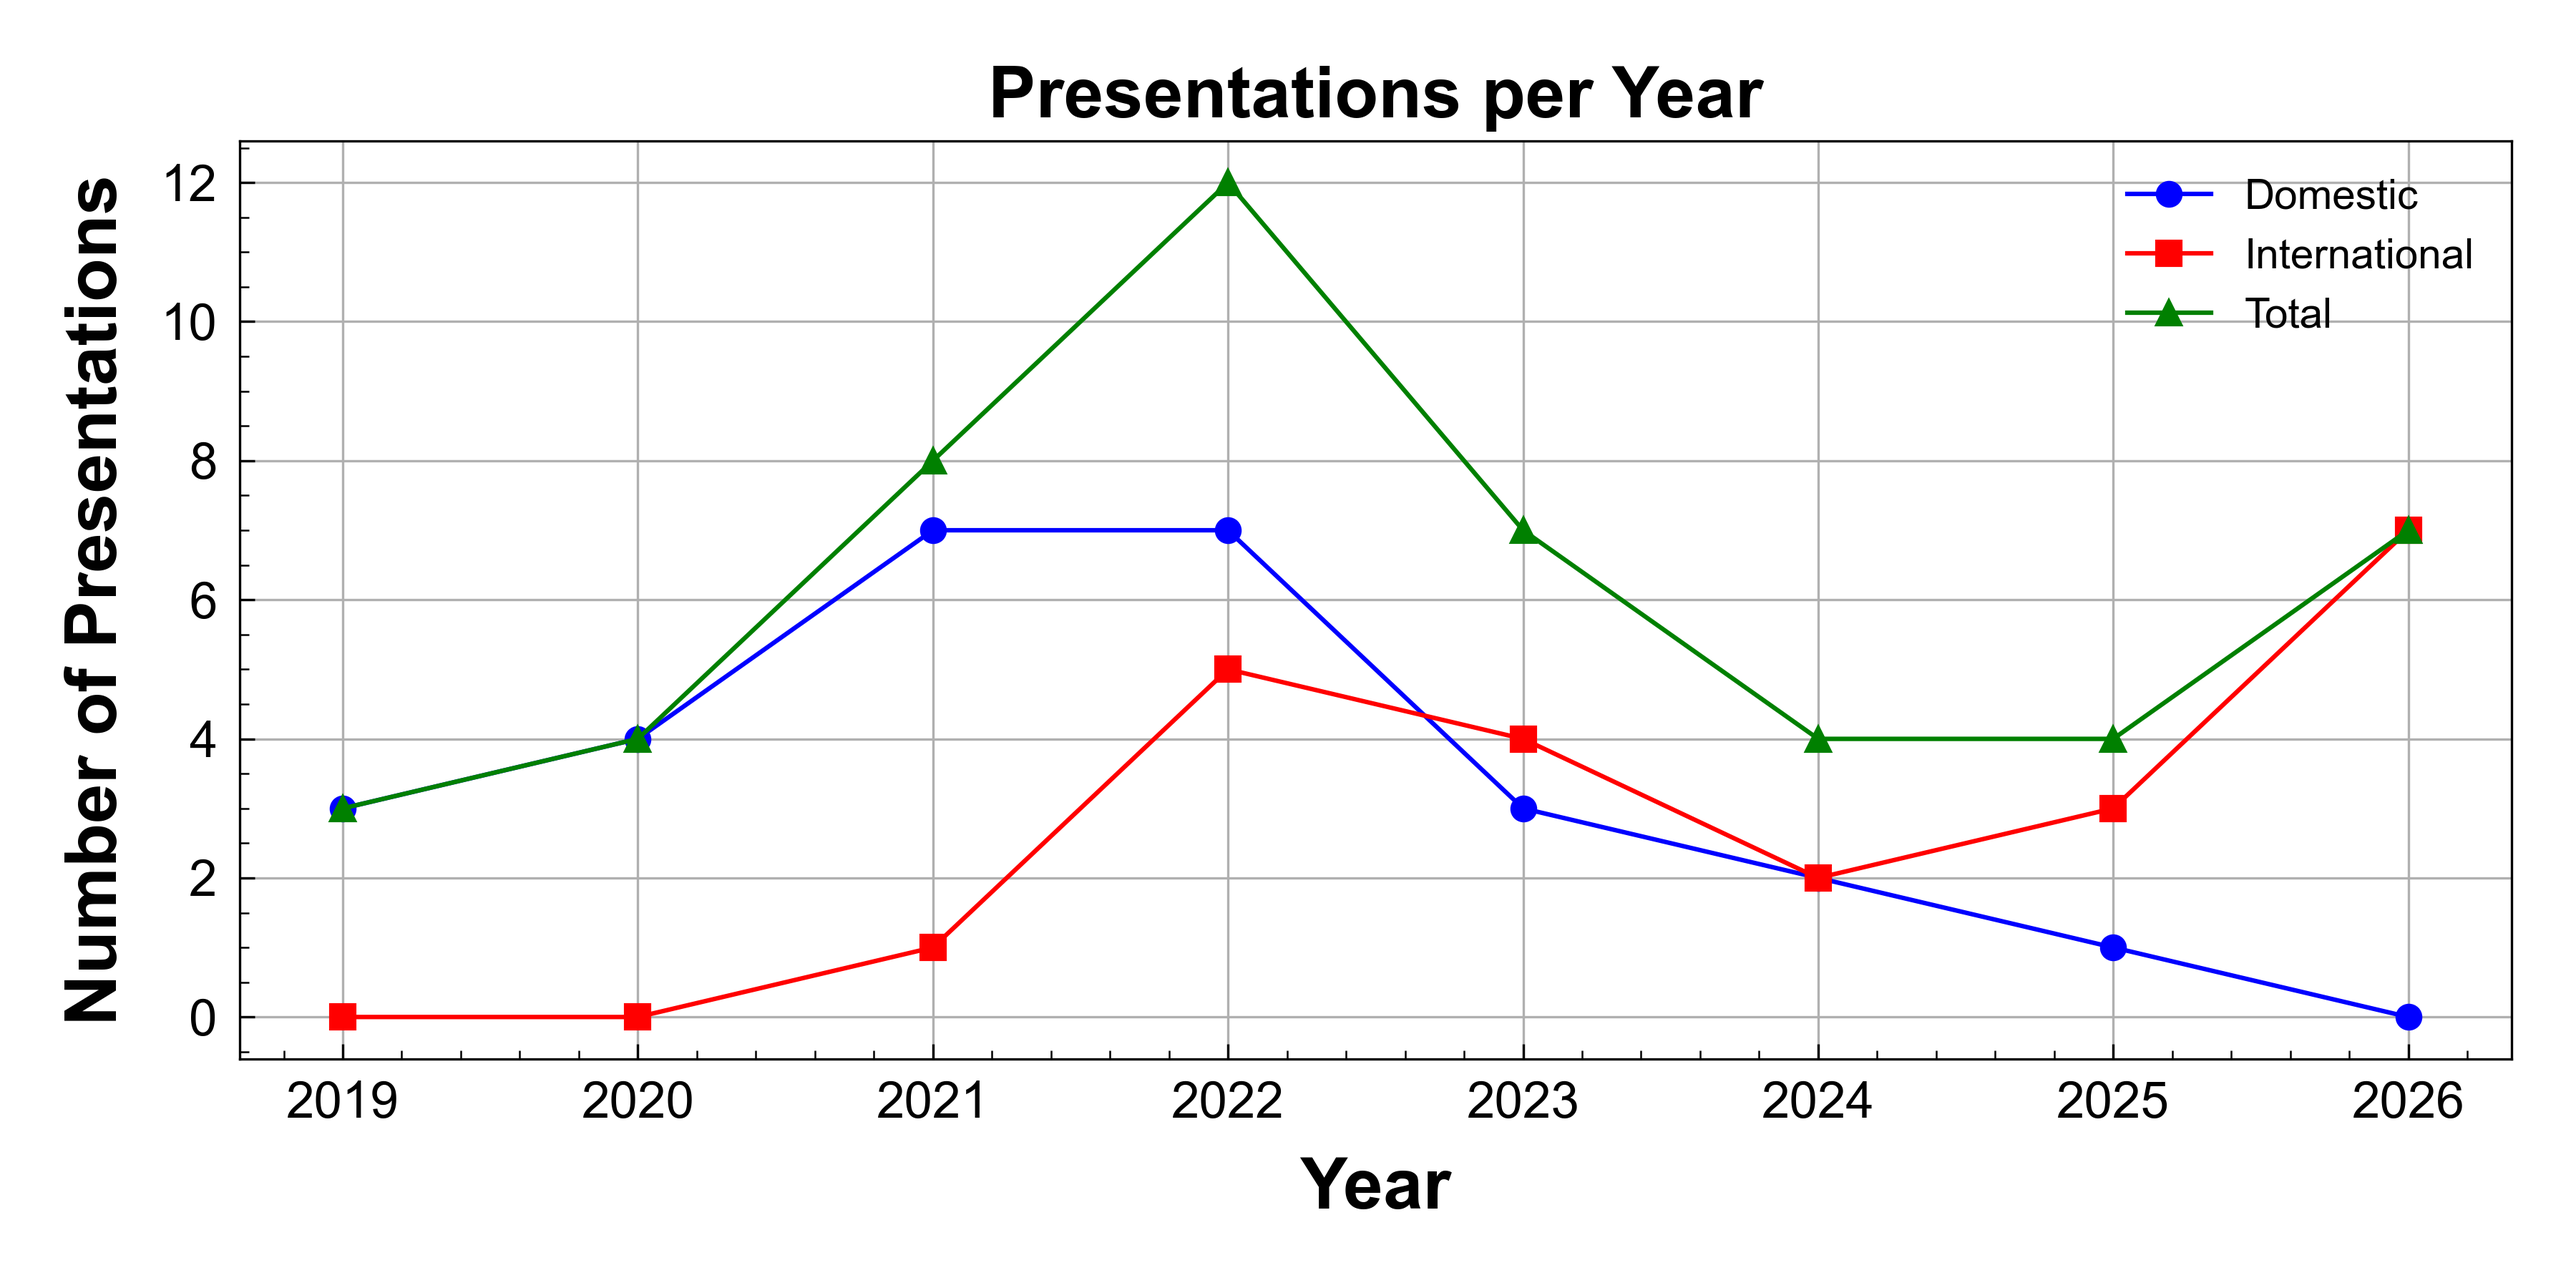
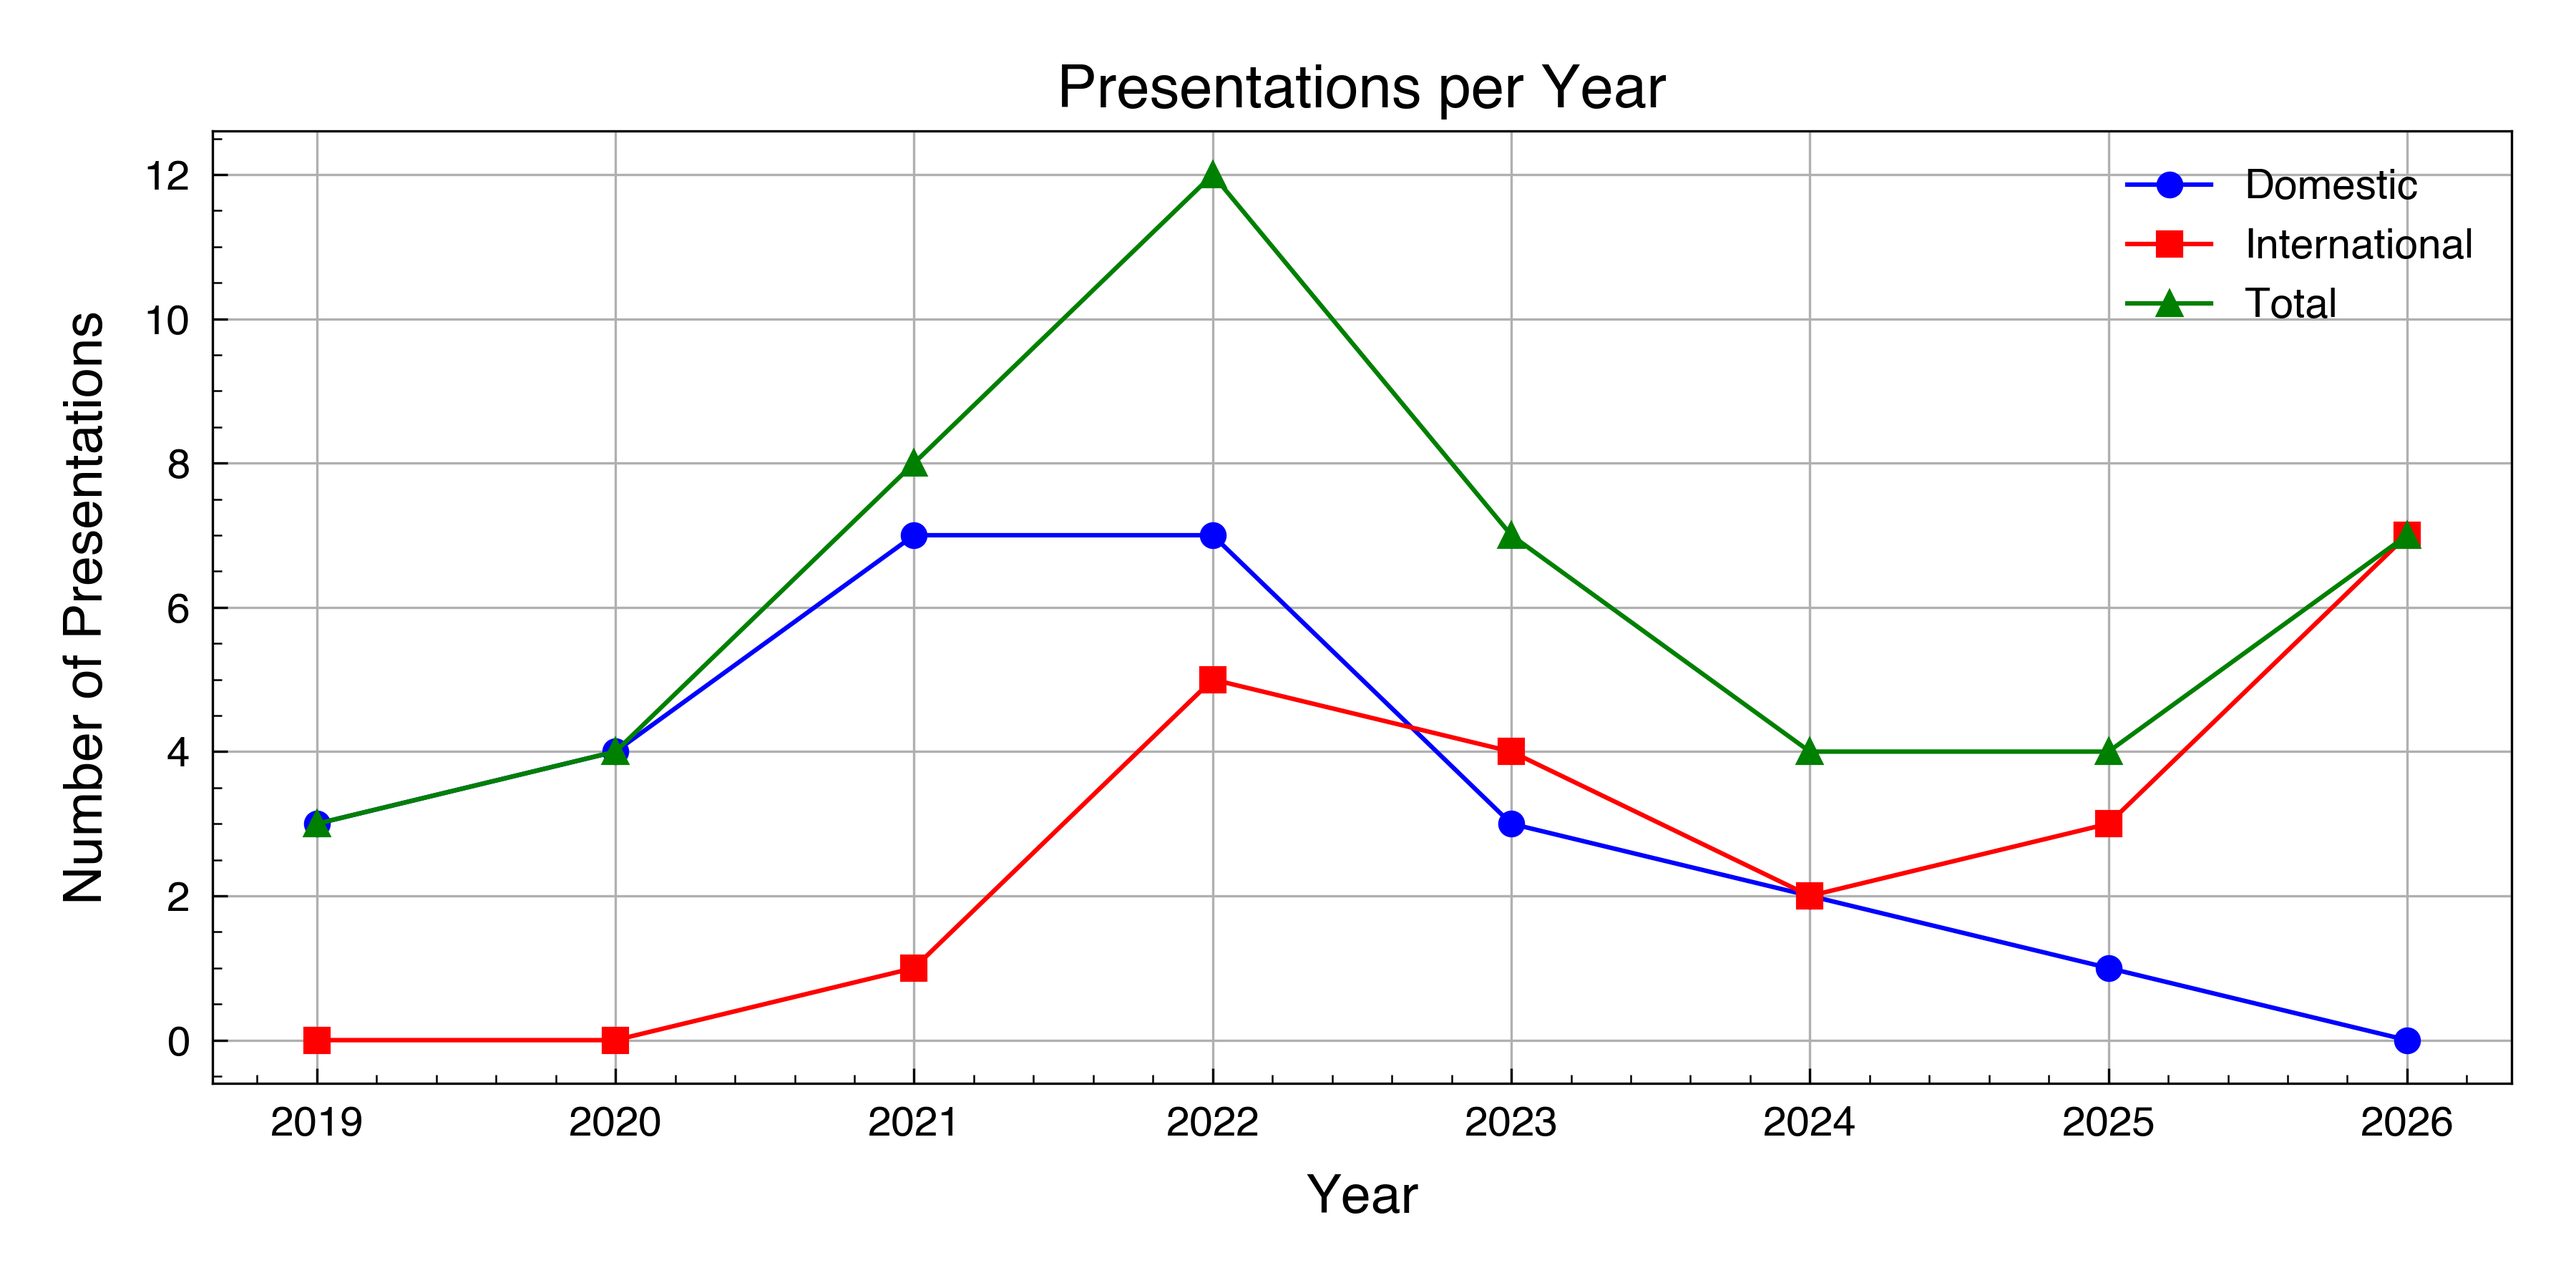
Update

diff --git a/publication.html b/publication.html
@@ -97,6 +97,18 @@
           <td><a href="https://doi.org/10.1093/pasj/psaf097" target="_blank">Simultaneous visible spectrophotometry of interstellar object 3I/ATLAS with Seimei/TriCCS</a></td>
           <td>Publications of the Astronomical Society of Japan, 77, L71-L76, 2025, doi: <a href="https://doi.org/10.1093/pasj/psaf097" target="_blank">10.1093/pasj/psaf097</a></td>
         </tr>
+        <tr>
+          <td>10</td>
+          <td class='authors'><b>Beniyama, Jin</b>, Ohsawa, Ryou, Sako, Shigeyuki, et al.</td>
+          <td><a href="https://doi.org/10.3847/1538-3881/ae86ee" target="_blank">Simultaneous Tricolor Video Observations of Three Tiny Near-Earth Asteroids with Subminute Rotation Periods</a></td>
+          <td>Astronomical Journal, 172, 129, 2026, doi: <a href="https://doi.org/10.3847/1538-3881/ae86ee" target="_blank">10.3847/1538-3881/ae86ee</a></td>
+        </tr>
+        <tr>
+          <td>11</td>
+          <td class='authors'><b>Beniyama, Jin</b>, Sergeyev, Alexey V., Xenos, Konstantinos Odysseas, et al.</td>
+          <td><a href="https://doi.org/10.1051/0004-6361/202661418" target="_blank">Rotation, spectral type, and albedo of the potentially hazardous asteroid (153814) 2001 WN$_5$: Prior to the 2028 June close approach</a></td>
+          <td>Astronomy & Astrophysics, 714, A6, 2026, doi: <a href="https://doi.org/10.1051/0004-6361/202661418" target="_blank">10.1051/0004-6361/202661418</a></td>
+        </tr>
       </table>
       <h1>Refereed Articles (Nth author)</h1>
       <hr>

diff --git a/presentation.html b/presentation.html
@@ -26,7 +26,7 @@
   </head>
   <body>
     <div id="page">
-  These are list of my presentations. Last updated on 2026-09-16 
+  These are list of my presentations. Last updated on 2026-10-12 
   <img src="fig/presentation.png" alt="Presentations per Year" style="max-width:100%;height:auto;">
 
       <h1>Domestic Presentations</h1>
